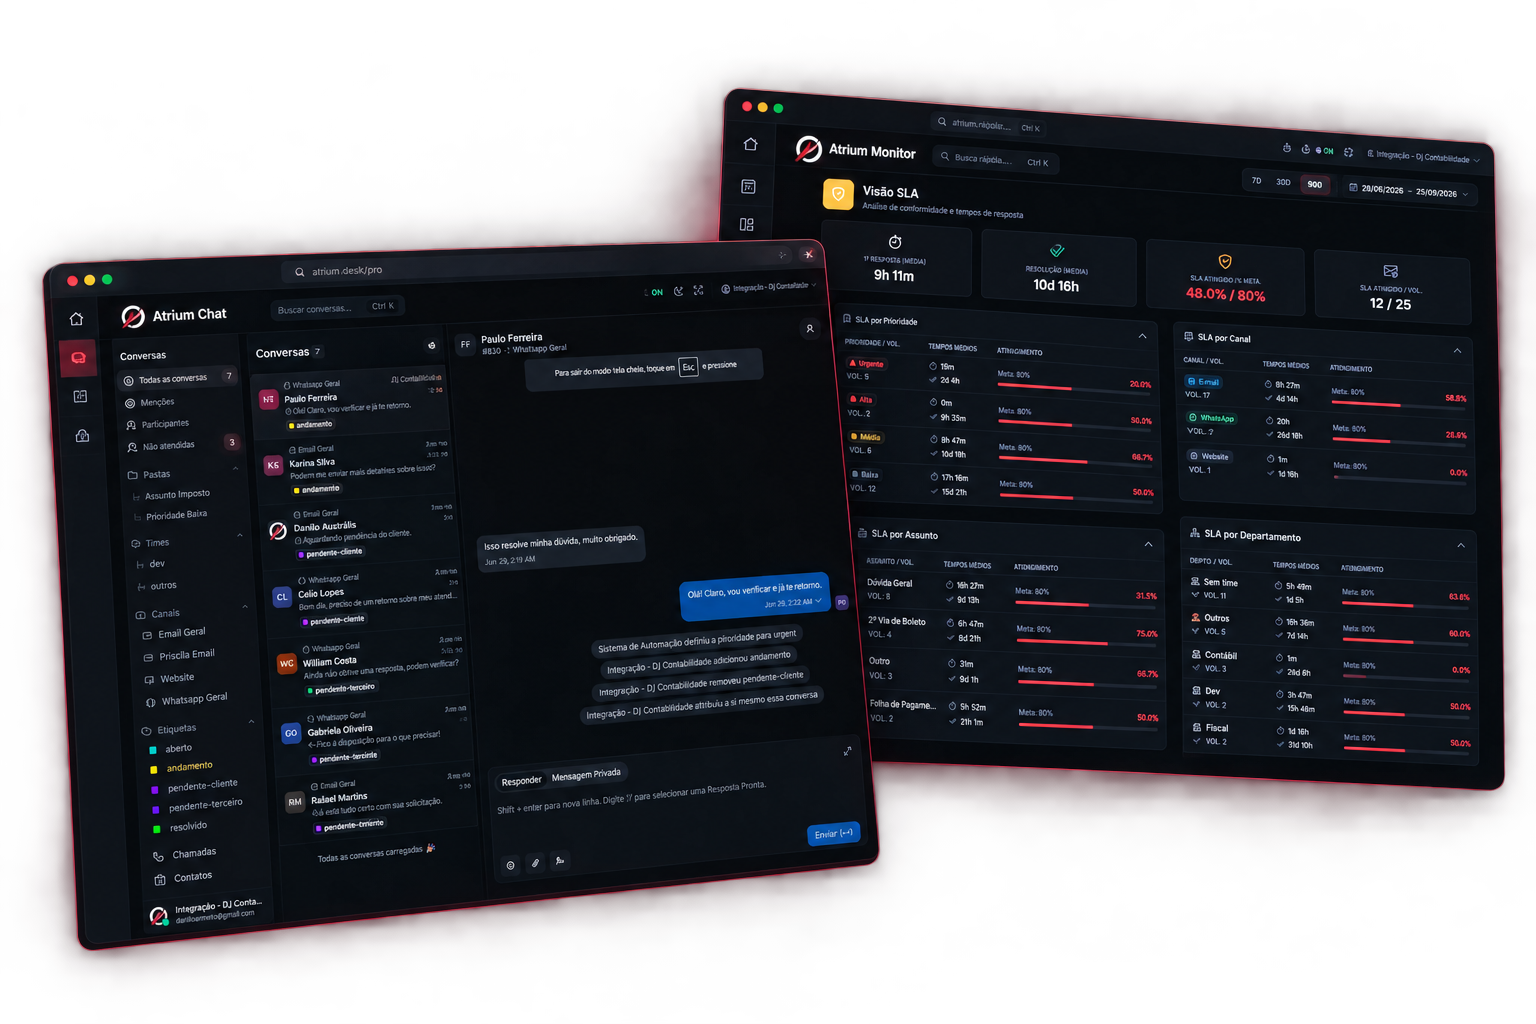
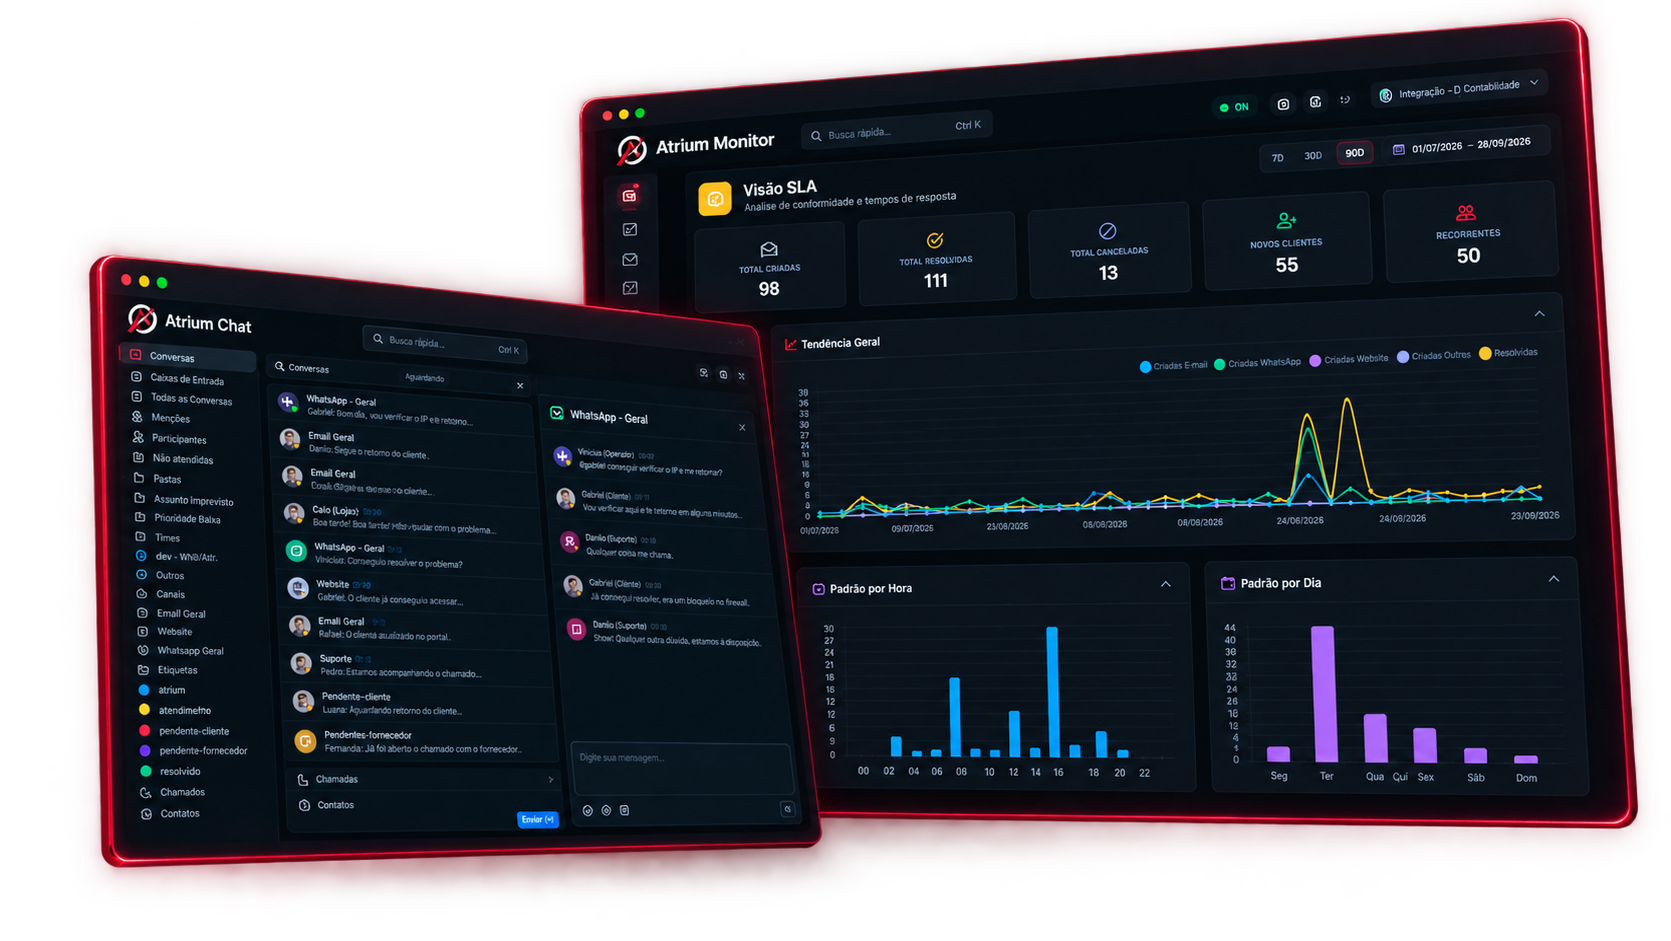
mudanças no hero

Changed region(s): [[0.0, 0.0, 1.0, 0.9554], [0.75, 0.2157, 0.8438, 0.339], [0.6562, 0.2465, 0.7188, 0.3082]]

diff --git a/css/style.css b/css/style.css
@@ -960,3 +960,108 @@ footer{border-top:1px solid var(--border);padding:70px 0 28px;background:#030303
     cursor:pointer;
   }
 }
+
+/* ==========================================================================
+   HERO v2 — colar no FINAL do css/style.css (sobrescreve as regras antigas).
+   Depois de validar, apague os blocos antigos: .hero-stats, .hs, .mockup-float-badge,
+   .hero-mockup-glow e as linhas de .hero/.hero-mockup dentro dos @media.
+   ========================================================================== */
+.hero{padding:120px 0 0;position:relative;overflow:hidden}
+.hero-grid{display:grid;grid-template-columns:.9fr 1.1fr;gap:28px;align-items:center}
+.hero-copy{position:relative;z-index:2}
+
+.hero h1{
+  font-size:clamp(2.3rem,4.1vw,3.6rem);
+  letter-spacing:-.045em;
+  line-height:1.06;
+  margin-bottom:22px;
+  font-weight:800;
+}
+.hero h1 .red{
+  display:block;
+  margin-top:6px;
+  background:linear-gradient(135deg,#ff3b42 0%,#e02a31 50%,#c22128 100%);
+  -webkit-background-clip:text;background-clip:text;
+  -webkit-text-fill-color:transparent;
+}
+.hero p{font-size:1.02rem;max-width:500px;margin-bottom:28px;color:var(--gray)}
+
+.hero-actions{display:flex;gap:14px;margin-bottom:34px;flex-wrap:wrap}
+.btn-hero{padding:17px 30px;font-size:1rem;border-radius:12px}
+.hero .btn-primary{box-shadow:0 8px 28px rgba(194,33,40,.45)}
+
+/* 3 destaques */
+.hero-features{list-style:none;display:grid;grid-template-columns:repeat(3,1fr);gap:18px;max-width:560px}
+.hero-features li{display:flex;flex-direction:column;gap:10px}
+.hf-icon{
+  width:42px;height:42px;border-radius:10px;display:flex;align-items:center;justify-content:center;
+  font-size:1.25rem;color:var(--red-hi);
+  background:var(--red-soft);border:1px solid rgba(194,33,40,.4);
+  box-shadow:0 0 18px -4px rgba(194,33,40,.5)
+}
+.hero-features strong{display:block;font-size:.85rem;color:var(--white);font-weight:700;line-height:1.3;margin-bottom:3px}
+.hero-features span:not(.hf-icon){display:block;font-size:.76rem;color:var(--muted);line-height:1.45}
+
+/* Mockup (imagem com fundo preto → funde com o fundo do site) */
+.hero-visual{position:relative;overflow:visible}
+.hero-mockup-wrapper{position:relative;width:118%;max-width:none;margin-left:-6%;perspective:1200px}
+.hero-mockup-img{
+  position:relative;z-index:1;width:100%;height:auto;display:block;
+  border:none;border-radius:0;box-shadow:none;
+  mix-blend-mode:screen;                       /* preto some, neon permanece */
+  -webkit-mask-image:radial-gradient(ellipse 78% 82% at 50% 50%,#000 60%,transparent 100%);
+          mask-image:radial-gradient(ellipse 78% 82% at 50% 50%,#000 60%,transparent 100%);
+  filter:drop-shadow(0 0 40px rgba(194,33,40,.25));
+  transition:transform .4s var(--ease)
+}
+.hero-mockup-wrapper:hover .hero-mockup-img{transform:translateY(-6px)}
+
+/* Faixa "Suíte Atrium" */
+.hero-suite{
+  margin-top:24px;padding:44px 0 70px;text-align:center;
+  border-top:1px solid var(--border);position:relative
+}
+.hero-suite::before{
+  content:'';position:absolute;top:-1px;left:50%;transform:translateX(-50%);
+  width:min(560px,70%);height:1px;
+  background:linear-gradient(90deg,transparent,var(--red-hi),transparent)
+}
+.suite-label{margin-bottom:12px}
+.suite-label span{
+  display:inline-flex;align-items:center;gap:14px;
+  font-size:.74rem;font-weight:700;letter-spacing:.2em;text-transform:uppercase;color:var(--red-hi)
+}
+.suite-label span::before,.suite-label span::after{content:'';width:22px;height:1px;background:var(--red-hi)}
+.hero-suite h2{font-size:clamp(1.3rem,2.2vw,1.7rem);letter-spacing:-.02em;margin-bottom:30px}
+.suite-items{display:flex;justify-content:center;align-items:stretch;gap:40px;flex-wrap:wrap}
+.suite-item{
+  display:flex;align-items:center;gap:16px;text-align:left;max-width:380px;
+  padding:14px 18px;border-radius:14px;border:1px solid transparent;
+  transition:background .25s var(--ease),border-color .25s var(--ease),transform .25s var(--ease)
+}
+.suite-item:hover{background:rgba(255,255,255,.03);border-color:var(--border-hi);transform:translateY(-2px)}
+.suite-icon{
+  width:54px;height:54px;flex-shrink:0;border-radius:12px;display:flex;align-items:center;justify-content:center;
+  font-size:1.5rem;color:var(--red-hi);border:1px solid rgba(194,33,40,.5);background:var(--red-soft)
+}
+.suite-item strong{display:block;font-size:1.25rem;color:var(--white);font-weight:800;letter-spacing:-.02em;margin-bottom:3px}
+.suite-item div span{display:block;font-size:.84rem;color:var(--muted);line-height:1.45}
+.suite-divider{width:1px;background:var(--border-hi)}
+
+/* Responsivo */
+@media(max-width:1024px){
+  .hero{padding-top:110px}
+  .hero-grid{grid-template-columns:1fr;gap:36px}
+  .hero-mockup-wrapper{width:100%;margin-left:0}
+  .hero p{max-width:none}
+  .hero-features{max-width:none}
+}
+@media(max-width:768px){
+  .hero h1{font-size:2.2rem}
+  .hero-actions .btn{width:100%}
+  .hero-features{grid-template-columns:1fr;gap:16px}
+  .hero-features li{flex-direction:row;align-items:flex-start;gap:14px}
+  .suite-divider{display:none}
+  .suite-items{flex-direction:column;align-items:center;gap:8px}
+  .hero-suite{padding:34px 0 50px}
+}

diff --git a/index.html b/index.html
@@ -164,33 +164,48 @@
 </div>
 
 <main>
-  <section id="hero" class="hero">
-    <div class="glow glow-1"></div>
-    <div class="glow glow-2"></div>
-    <div class="container hero-grid">
-      <div class="fade">
-        <span class="eyebrow"><i class="bi bi-shield-check"></i> Ecossistema Atrium Desk</span>
-        <h1>O controle absoluto da sua <span class="red">operação</span>.</h1>
-        <p>Centralize seu atendimento com IA nativa, monitore SLAs em tempo real e escale seus resultados com total transparência.</p>
-        <div class="hero-actions">
-          <a href="#agendar" class="btn btn-primary">Agendar Demonstração <i class="bi bi-arrow-right"></i></a>
-          <a href="#atrium-chat" class="btn btn-ghost"><i class="bi bi-eye"></i> Ver Funcionalidades</a>
-        </div>
-        <div class="hero-stats">
-          <div class="hs"><span class="n" data-count="48" data-suffix="h">0h</span><span class="l">Setup completo</span></div>
-          <div class="hs"><span class="n" data-count="100" data-suffix="%">0%</span><span class="l">SLA monitorado</span></div>
-          <div class="hs"><span class="n">2</span><span class="l">Ferramentas, 1 plano</span></div>
-        </div>
+<section id="hero" class="hero">
+  <div class="glow glow-1"></div>
+  <div class="glow glow-2"></div>
+
+  <div class="container hero-grid">
+    <div class="hero-copy fade">
+      <span class="eyebrow"><i class="bi bi-shield-check"></i> Chat e Monitoramento de métricas em um só lugar</span>
+
+      <h1>
+        <span class="red">Mais controle<br>para o seu negócio.</span>
+      </h1>
+
+      <p>O Atrium Desk Pro reúne o Atrium Chat e o Atrium Monitor em uma única solução, trazendo comunicação integrada, visibilidade em tempo real e métricas completas para você tomar decisões mais rápidas e assertivas.</p>
+
+      <div class="hero-actions">
+        <a href="#planos" class="btn btn-primary btn-hero">Conheça o Atrium Desk Pro <i class="bi bi-arrow-right"></i></a>
+        <a href="#agendar" class="btn btn-ghost btn-hero"><i class="bi bi-calendar-check"></i> Agendar Demo</a>
       </div>
 
-      <div class="hero-visual fade">
-        <div class="hero-mockup-wrapper" data-tilt>
-          <div class="hero-mockup-glow"></div>
-          <img src="/img/hero-mockup.png" alt="Atrium Desk Pro - Mockup do Atrium Chat e Atrium Monitor em ação" class="hero-mockup-img" referrerPolicy="no-referrer">
-        </div>
+      <ul class="hero-features">
+        <li>
+          <span class="hf-icon"><i class="bi bi-chat-dots"></i></span>
+          <div><strong>Atendimento unificado</strong><span>Chat, e-mail e integrações no mesmo ambiente.</span></div>
+        </li>
+        <li>
+          <span class="hf-icon"><i class="bi bi-shield-check"></i></span>
+          <div><strong>Monitoramento em tempo real</strong><span>Acompanhe métricas e saúde dos sistemas.</span></div>
+        </li>
+        <li>
+          <span class="hf-icon"><i class="bi bi-bar-chart-line"></i></span>
+          <div><strong>Decisões mais rápidas</strong><span>Dados e indicadores em um só lugar.</span></div>
+        </li>
+      </ul>
+    </div>
+
+    <div class="hero-visual fade">
+      <div class="hero-mockup-wrapper" data-tilt>
+        <img src="/img/hero-mockup.png" alt="Atrium Chat e Atrium Monitor: telas do Atrium Desk Pro" class="hero-mockup-img" width="3000" height="1200" fetchpriority="high">
       </div>
     </div>
-  </section>
+  </div>
+</section>
 
   <section id="atrium-chat" class="sec">
     <div class="container">
